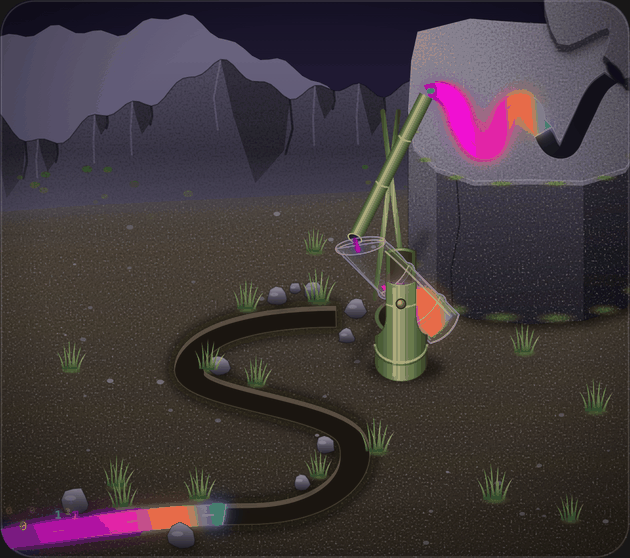
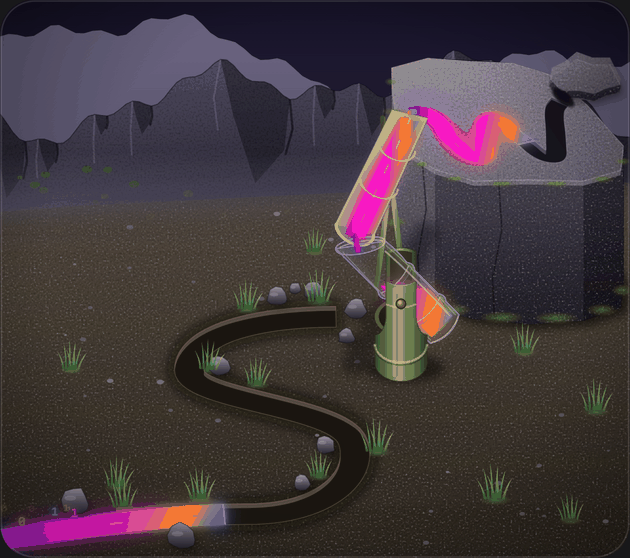
Split half-pipe kakei as thick as the rocker; level rock top with perspective
- The kakei is now a bamboo split lengthwise, the same diameter as the
  rocker: only its lower half (a U trough) remains, and the W water visibly
  runs inside it while the bamboo is filling, then drops into the mouth.
- The rock recedes with mild perspective behind z=0 (its front stays on the
  ground), so its level top narrows with distance and no longer reads as
  tilted toward the viewer; the visible left side face adds volume.
- The spring is hidden under a low boulder lying on the slab.
- 45 unit/physics tests, 37 browser scenarios.

diff --git a/desktop/plugin.js b/desktop/plugin.js
@@ -296,6 +296,10 @@ function makeSessionChannel() {
 // (x, 151+(z-h)cos45). The rock is a real extruded block standing on the ground
 // behind the bamboo; its top, where W is carved, is parallel to the ground.
 function groundToScreen(x,z,h=0) {return [x,151+(z-h)*CAMERA_K]}
+// Without convergence a level top reads as tilted toward the viewer, so the rock
+// recedes with mild perspective behind z=0 (its front stays aligned with the ground).
+var ROCK_PERSPECTIVE={cx:150,depth:380};
+function rockToScreen(x,z,h=0) {const s=1+Math.min(0,z)/ROCK_PERSPECTIVE.depth;return [ROCK_PERSPECTIVE.cx+(x-ROCK_PERSPECTIVE.cx)*s,151+z*CAMERA_K-h*CAMERA_K*s]}
 function convexHull(points) {
  const p=[...points].sort((a,b)=>a[0]-b[0]||a[1]-b[1]),cross=(o,a,b)=>(a[0]-o[0])*(b[1]-o[1])-(a[1]-o[1])*(b[0]-o[0]),lower=[],upper=[];
  for(const q of p){while(lower.length>1&&cross(lower.at(-2),lower.at(-1),q)<=0)lower.pop();lower.push(q)}
@@ -331,31 +335,40 @@ function makeWeeklyChannel() {
  const k=CAMERA_K,H=ROCK_3D.height,knots=[[174.5,32],[181,31],[187,33],[192,38],[195,44],[196,50],[200,57],[203,62],[207,66],[212,66.5],[216,62.5],[218,56],[221,50],[223,44],[226,40],[230,37.5],[234,37.5],[238,40],[240,44],[241,49],[246,55],[249,61],[253,65.5],[258,66.5],[262,63],[265,57],[268,51],[272,43],[276,35],[281,28],[288,23]];
  // The W lies in the level top of the block (height H), read by the viewer with
  // its top edge away from them; the groove deepens toward the outlet.
- const toGround=p=>[203+(p[0]-174.5)*.78,-66+(p[1]-23)/k*.82],project=p=>groundToScreen(p[0],p[1],H);
+ const toGround=p=>[203+(p[0]-174.5)*.78,-66+(p[1]-23)/k*.82],project=p=>rockToScreen(p[0],p[1],H);
  const channel=carvedChannel(catmullRom(knots.map(toGround),5),5,project);
  const last=channel.left.length-1,bedDepth=channel.left.map((_,i)=>1.2+3.4*(1-i/last));
  const bed=[...channel.left.map((p,i)=>[p[0],p[1]+bedDepth[i]]),...channel.right.map((p,i)=>[p[0],p[1]+bedDepth[i]]).reverse()];
  const foot=ROCK_3D.footprint,tops=foot.map((_,i)=>H-1+2.4*Math.sin(i*2.3));
- const plateau=foot.map((p,i)=>groundToScreen(p[0],p[1],tops[i])),base=foot.map(p=>groundToScreen(p[0],p[1],0));
+ const plateau=foot.map((p,i)=>rockToScreen(p[0],p[1],tops[i])),base=foot.map(p=>rockToScreen(p[0],p[1],0));
  // Only side faces whose outward normal points toward the camera are visible.
  const cx=foot.reduce((s,p)=>s+p[0],0)/foot.length,cz=foot.reduce((s,p)=>s+p[1],0)/foot.length,facets=[];
  for(let i=0;i<foot.length;i++){const j=(i+1)%foot.length,a=foot[i],b=foot[j];let n=[b[1]-a[1],-(b[0]-a[0])];const l=Math.hypot(n[0],n[1])||1;n=[n[0]/l,n[1]/l];
   if(n[0]*((a[0]+b[0])/2-cx)+n[1]*((a[1]+b[1])/2-cz)<0)n=[-n[0],-n[1]];
-  if(n[1]>.05)facets.push({shade:n[0]<-.35?'lit':n[0]>.35?'shade':'mid',normal:n,depth:(a[1]+b[1])/2,points:[base[i],base[j],plateau[j],plateau[i]]})}
+  const mx=(a[0]+b[0])/2,seen=n[1]>.05||(n[0]<-.3&&mx>ROCK_PERSPECTIVE.cx)||(n[0]>.3&&mx<ROCK_PERSPECTIVE.cx);
+  if(seen)facets.push({shade:n[0]<-.35?'lit':n[0]>.35?'shade':'mid',normal:n,depth:(a[1]+b[1])/2,points:[base[i],base[j],plateau[j],plateau[i]]})}
  facets.sort((a,b)=>a.depth-b.depth);
  const rock=convexHull([...plateau,...base]);
- // Kakei: a natural bamboo pipe takes the water from the W outlet over to the
- // rocker's mouth, sloping gently down; a crossed-stick trestle holds its middle.
- const mouth=bambooPoint([144.4,98]),postZ=(BAMBOO_POST.base-151)/k,mouthH=(151+postZ*k-mouth[1])/k;
- const start=[channel.ground[0][0],channel.ground[0][1],H-2.5],end=[mouth[0]-1.5,postZ,mouthH+8],mid=[0,1,2].map(i=>(start[i]+end[i])/2);
- const crossH=mid[2]-4.6,spread=7.5,stick=x=>[groundToScreen(x,mid[1],0),groundToScreen(mid[0]+(mid[0]-x)*.45,mid[1],crossH+(crossH)*.45*1)];
- const kakei={start,end,radius:3.4,screenStart:groundToScreen(...start),screenEnd:groundToScreen(...end),mouthHeight:mouthH,postDepth:postZ,
+ // Kakei: a bamboo as thick as the rocker, split lengthwise so only its lower
+ // half remains; it carries the W water, sloping down, to just above the mouth.
+ const mouth=bambooPoint([144.4,98]),postZ=(BAMBOO_POST.base-151)/k,mouthH=(151+postZ*k-mouth[1])/k,r=9.7;
+ const start=[channel.ground[0][0],channel.ground[0][1],H-1],end=[mouth[0]-1.5,postZ,mouthH+r+4],mid=[0,1,2].map(i=>(start[i]+end[i])/2);
+ const gl=Math.hypot(end[0]-start[0],end[1]-start[1]),n3=[-(end[1]-start[1])/gl,(end[0]-start[0])/gl];
+ const pt=(p,side,dh=0)=>rockToScreen(p[0]+n3[0]*r*side,p[1]+n3[1]*r*side,p[2]+dh),along=t=>[0,1,2].map(i=>start[i]+(end[i]-start[i])*t);
+ const rimA=[pt(start,1),pt(start,-1)],rimB=[pt(end,1),pt(end,-1)],profile=(p,steps=12)=>Array.from({length:steps+1},(_,i)=>{const a=i/steps*Math.PI;return pt(p,Math.cos(a),-r*Math.sin(a))});
+ const crossH=mid[2]-r-1.5,spread=7.5;
+ const kakei={start,end,radius:r,mouthHeight:mouthH,postDepth:postZ,screenStart:rockToScreen(...start),screenEnd:rockToScreen(...end),
+  outer:convexHull([...rimA,...rimB,...profile(start),...profile(end)]),inner:[rimA[0],rimB[0],rimB[1],rimA[1]],
+  water:[pt(start,.5,-r*.45),pt(end,.5,-r*.45),pt(end,-.5,-r*.45),pt(start,-.5,-r*.45)],waterAxis:[pt(start,0,-r*.4),pt(end,0,-r*.4)],
+  endProfile:profile(end),nodes:[.32,.66].map(t=>profile(along(t),8)),
   trestle:{depth:mid[1],crossHeight:crossH,feet:[mid[0]-spread,mid[0]+spread],sticks:[[groundToScreen(mid[0]-spread,mid[1],0),groundToScreen(mid[0]+spread*.5,mid[1],crossH*1.5)],[groundToScreen(mid[0]+spread,mid[1],0),groundToScreen(mid[0]-spread*.5,mid[1],crossH*1.5)]]}};
  // A rock outcrop at the spring hides where the water comes from. Its edge stops
  // just past the channel's end, so no quota-bearing water is ever covered.
  const end2=channel.points.at(-1),back=channel.points.at(-6),dl=Math.hypot(end2[0]-back[0],end2[1]-back[1]),d=[(end2[0]-back[0])/dl,(end2[1]-back[1])/dl],nn=[-d[1],d[0]];
  const at=(a,b)=>[end2[0]+d[0]*a+nn[0]*b,end2[1]+d[1]*a+nn[1]*b];
- const outcrop=catmullRom([at(1.3,-9),at(1.7,-4.5),at(1.2,0),at(1.7,4.5),at(1.5,9.5),at(6,15),[302,end2[1]+12],[308,end2[1]+14],[308,-10],[262,-10],[266,end2[1]-12],at(10,-17)],4,true);
+ // A weathered boulder sits on the slab over the spring; its near edge stops just
+ // past the channel end and its body rises above it.
+ const oc=[end2[0]+12,end2[1]-7],outcrop=Array.from({length:14},(_,i)=>{const a=i/14*Math.PI*2,s=Math.sin(a),rr=1+.12*Math.sin(i*2.7);return [oc[0]+17*Math.cos(a)*rr,oc[1]+(s>0?6.5*s:12*s)*rr]});
  return {...channel,lip:channel.points[0],spring:end2,springDirection:d,plateau,base,rock,facets,outcrop,kakei,rock3d:{footprint:foot,height:H,tops},surfaceTilt:{tiltDegrees:0,k,height:H},bed,bedDepth,surface:'rock',drainsFrom:'source'}
 }
 function pointInPolygon(p,poly) {let c=false;for(let i=0,j=poly.length-1;i<poly.length;j=i++){const a=poly[i],b=poly[j];if((a[1]>p[1])!==(b[1]>p[1])&&p[0]<(b[0]-a[0])*(p[1]-a[1])/(b[1]-a[1])+a[0])c=!c}return c}
@@ -529,6 +542,7 @@ function applyFluidFrame(svg,frame) {
  const jet=svg.querySelector('[data-bamboo-pour]');if(jet){jet.setAttribute('d',fluidJetPath(frame.jet));jet.style.opacity=String(frame.jet.opacity)}
  const internal=svg.querySelector('[data-fluid-internal]');if(internal)internal.style.opacity=String(frame.jet.opacity*.65);
  const inlet=svg.querySelector('[data-bamboo-inflow]');if(inlet){inlet.style.opacity=frame.flowing?'.9':'0';inlet.setAttribute('data-bamboo-flow',frame.flowing?'running':'stopped')}
+ for(const node of svg.querySelectorAll('[data-kakei-water],[data-kakei-current]'))node.style.opacity=frame.flowing?(node.hasAttribute('data-kakei-water')?'.95':'.7'):'0';
  const splash=svg.querySelector('[data-fluid-splash]');if(splash){const [x,y]=FLUID_GEOMETRY.channel.inlet,o=frame.jet.opacity,r=2.5+4.5*((frame.time%650)/650),ry=r*CAMERA_K*.55;splash.setAttribute('d',`M${round(x-r)} ${y}A${round(r)} ${round(ry)} 0 1 0 ${round(x+r)} ${y}A${round(r)} ${round(ry)} 0 1 0 ${round(x-r)} ${y}`);splash.style.opacity=String(o*.7)}
  for(const node of svg.querySelectorAll('[data-binary-digit]')){
   const d=frame.motion?binaryDigit(frame.time,Number(node.getAttribute('data-binary-digit')),frame.S.fraction):null;
@@ -664,19 +678,24 @@ function bambooScene(sessionLeft,weeklyLeft,id,expanded=false,cycle={progress:nu
   ]}),
   jsx('ellipse',{'data-spring':'W',cx:spr[0]+g.weekly.springDirection[0]*2.2,cy:spr[1]+g.weekly.springDirection[1]*2.2,rx:3.2,ry:7.5,transform:`rotate(${sprAngle} ${spr[0]+g.weekly.springDirection[0]*2.2} ${spr[1]+g.weekly.springDirection[1]*2.2})`,fill:paint('crevice')})
  ]});
- const kk=w3.kakei,ka=kk.screenStart,kb=kk.screenEnd,kl=Math.hypot(kb[0]-ka[0],kb[1]-ka[1]),ku=[(kb[0]-ka[0])/kl,(kb[1]-ka[1])/kl],kn=[-ku[1],ku[0]],kr=kk.radius,off=(p,s)=>[p[0]+kn[0]*kr*s,p[1]+kn[1]*kr*s],kf=p=>p.map(n=>Number(n.toFixed(2))).join(' ');
- const kakei=jsxs('g',{'data-kakei':true,children:[
-
-  ...kk.trestle.sticks.map((s,i)=>jsx('path',{'data-kakei-trestle':i,d:line(s),fill:'none',stroke:paint('post'),strokeWidth:2.3,strokeLinecap:'round'},`stick-${i}`)),
-  jsx('path',{d:`M${kf(groundToScreen(kk.start[0],kk.start[1],0))}L${kf(groundToScreen(kk.end[0],kk.end[1],0))}`,fill:'none',stroke:'#000',strokeOpacity:.35,strokeWidth:5,strokeLinecap:'round',filter:paint('soft')}),
-  jsx('path',{'data-kakei-pipe':true,d:`M${kf(off(ka,1))}L${kf(off(kb,1))}L${kf(off(kb,-1))}L${kf(off(ka,-1))}Z`,fill:paint('kakei')}),
-  ...[.3,.62].map((t,i)=>{const c=lerp2(ka,kb,t);return jsx('path',{d:`M${kf(off(c,1))}Q${kf([c[0]+ku[0]*1.6,c[1]+ku[1]*1.6])} ${kf(off(c,-1))}`,fill:'none',stroke:'#e4dc9c',strokeOpacity:.55,strokeWidth:.8},`kakei-node-${i}`)}),
-  jsx('path',{d:`M${kf(off(ka,.35))}L${kf(off(kb,.35))}`,fill:'none',stroke:'#fff7cf',strokeOpacity:.28,strokeWidth:1,strokeLinecap:'round'}),
-  jsx('ellipse',{'data-kakei-mouth':true,cx:kb[0],cy:kb[1],rx:kr,ry:kr*.55,transform:`rotate(${Math.atan2(kn[1],kn[0])*180/Math.PI} ${kb[0]} ${kb[1]})`,fill:'#1e1a0c',stroke:'#cfc584',strokeWidth:.6})
+ const kk=w3.kakei,kf=p=>p.map(n=>Number(n.toFixed(2))).join(' '),kb=kk.waterAxis[1];
+ const kakei=jsxs('g',{'data-kakei':'half-pipe',children:[
+  ...kk.trestle.sticks.map((s,i)=>jsx('path',{'data-kakei-trestle':i,d:line(s),fill:'none',stroke:paint('post'),strokeWidth:2.6,strokeLinecap:'round'},`stick-${i}`)),
+  jsx('path',{d:line([groundToScreen(kk.start[0],kk.start[1],0),groundToScreen(kk.end[0],kk.end[1],0)]),fill:'none',stroke:'#000',strokeOpacity:.35,strokeWidth:12,strokeLinecap:'round',filter:paint('soft')}),
+  jsx('path',{'data-kakei-pipe':true,d:fluidPath(kk.outer),fill:paint('kakei'),stroke:'#252b10',strokeOpacity:.5,strokeWidth:.5,strokeLinejoin:'round'}),
+  jsx('path',{'data-kakei-inside':true,d:fluidPath(kk.inner),fill:paint('kakei-inside')}),
+  jsx('g',{filter:paint('liquid-glow'),children:[
+   jsx('path',{'data-kakei-water':true,d:fluidPath(kk.water),fill:paint('liquid'),style:{opacity:0,animation:rainbow}}),
+   jsx('path',{'data-kakei-current':true,d:line(kk.waterAxis),fill:'none',stroke:'#f6eeff',strokeOpacity:.7,strokeWidth:.9,strokeDasharray:'4 9',strokeLinecap:'round',className:'usage-bamboo-flow',style:{opacity:0,animation:'usage-bamboo-flow 1.1s linear infinite'}})
+  ]}),
+  ...kk.nodes.map((n,i)=>jsx('path',{d:line(n),fill:'none',stroke:'#efe6b0',strokeOpacity:.6,strokeWidth:.9},`kakei-node-${i}`)),
+  jsx('path',{d:line([kk.inner[0],kk.inner[1]]),fill:'none',stroke:'#f3ecc2',strokeOpacity:.65,strokeWidth:.9}),
+  jsx('path',{d:line([kk.inner[3],kk.inner[2]]),fill:'none',stroke:'#f3ecc2',strokeOpacity:.45,strokeWidth:.8}),
+  jsx('path',{'data-kakei-mouth':true,d:line(kk.endProfile),fill:'none',stroke:'#e9dfa6',strokeWidth:1.3,strokeLinecap:'round'})
  ]});
  const digits=jsx('g',{'data-binary-stream':'S',filter:paint('liquid-glow'),children:Array.from({length:BINARY_SLOTS},(_,i)=>jsx('text',{'data-binary-digit':i,x:0,y:0,textAnchor:'middle',fontFamily:'ui-monospace,SFMono-Regular,Menlo,Consolas,monospace',fontWeight:700,fontSize:3.6,fill:'#3d9bff',style:{opacity:0},children:'0'},`digit-${i}`))});
  const decor=[...g.stones.map((s,i)=>({y:s.y,node:stoneNode(s,i)})),...g.grass.map((t,i)=>({y:t[1],node:tuftNode(t,i)}))].sort((a,b)=>a.y-b.y);
- return jsxs('svg',{'data-bamboo-scene':expanded?'expanded':'compact','data-material':'glass-bamboo','data-colour-style':'apple-reference-v10','data-scene':'kakei-block-v16','data-camera':'oblique-45','data-bamboo-scale':.44,'data-weekly-shape':'w-watercourse-rock','data-session-shape':'s-watercourse','data-fluid-engine':'gravity-volume-v7',
+ return jsxs('svg',{'data-bamboo-scene':expanded?'expanded':'compact','data-material':'glass-bamboo','data-colour-style':'apple-reference-v10','data-scene':'half-pipe-v17','data-camera':'oblique-45','data-bamboo-scale':.44,'data-weekly-shape':'w-watercourse-rock','data-session-shape':'s-watercourse','data-fluid-engine':'gravity-volume-v7',
   'data-flow-from':'W','data-flow-via':'cycle','data-flow-to':'S','data-outlet-position':'bottom','data-source-pipe':'none',
   'data-cycle-state':m.tipped?'dumping':cycle.phase||'unknown','data-cycle-progress':cycle.progress,'data-cycle-reset':cycle.resetMs,'data-physical-angle':frame.angle,
   viewBox:'0 0 300 266',width:expanded?'100%':68,height:expanded?236:20,'aria-hidden':true,style:{display:'block',flexShrink:0,overflow:'hidden'},children:[
@@ -701,7 +720,8 @@ function bambooScene(sessionLeft,weeklyLeft,id,expanded=false,cycle={progress:nu
     jsxs('linearGradient',{id:uid('glass-body'),x1:'0%',y1:'0%',x2:'0%',y2:'100%',children:[jsx('stop',{offset:'0%',stopColor:tint('.95','.03','155'),stopOpacity:.25}),jsx('stop',{offset:'25%',stopColor:tint('.80','.05','160'),stopOpacity:.045}),jsx('stop',{offset:'67%',stopColor:tint('.8','.04','185'),stopOpacity:.025}),jsx('stop',{offset:'100%',stopColor:tint('.75','.06','170'),stopOpacity:.2})]}),
     jsxs('linearGradient',{id:uid('glass-edge'),x1:'0%',y1:'0%',x2:'100%',y2:'90%',children:[jsx('stop',{offset:'0%',stopColor:white,stopOpacity:.55}),jsx('stop',{offset:'35%',stopColor:tint('.8','.07','160'),stopOpacity:.5}),jsx('stop',{offset:'70%',stopColor:white,stopOpacity:.4}),jsx('stop',{offset:'100%',stopColor:tint('.65','.06','175'),stopOpacity:.45})]}),
     gradient('post',[['0%','#3e4a22'],['28%','#6f7d3c'],['46%','#a9ad6c'],['60%','#86904c'],['100%','#323c1a']],{x2:'100%',y2:'0%'}),
-    jsx('linearGradient',{id:uid('kakei'),gradientUnits:'userSpaceOnUse',x1:off(ka,1)[0],y1:off(ka,1)[1],x2:off(ka,-1)[0],y2:off(ka,-1)[1],children:[jsx('stop',{offset:'0%',stopColor:'#3e4a22'}),jsx('stop',{offset:'40%',stopColor:'#a9ad6c'}),jsx('stop',{offset:'100%',stopColor:'#323c1a'})]}),
+    gradient('kakei',[['0%','#59652d'],['45%','#8f9a52'],['100%','#323c1a']],{x2:'100%'}),
+    gradient('kakei-inside',[['0%','#e2d6a0'],['55%','#bba970'],['100%','#8c7c48']],{x2:'60%'}),
     gradient('face-depth',[['0%','#000',0],['55%','#000',.08],['100%','#000',.45]]),
     gradient('post-cut',[['0%','#e3dcb0'],['100%','#a99f6c']]),
     jsxs('radialGradient',{id:uid('peg'),cx:'40%',cy:'38%',children:[jsx('stop',{offset:'0%',stopColor:'#c89a5a'}),jsx('stop',{offset:'100%',stopColor:'#6b4720'})]}),
@@ -759,7 +779,7 @@ function bambooScene(sessionLeft,weeklyLeft,id,expanded=false,cycle={progress:nu
    ]},String(cycle.eventId||'idle')),
    frame.bamboo.fraction===null?jsx('text',{'data-bamboo-unknown':'cycle',x:bambooPoint([212,157])[0],y:bambooPoint([212,157])[1],textAnchor:'middle',fontSize:7,fontWeight:650,fill:muted,children:usageText().unknownMark}):null,
    frontPost,
-   jsx('g',{filter:paint('liquid-glow'),children:jsx('path',{'data-bamboo-inflow':'W','data-bamboo-flow':frame.flowing?'running':'stopped',d:`M${from.join(' ')}L${lip.join(' ')}M${kb[0]} ${kb[1]+1}L${mouth.join(' ')}`,fill:'none',stroke:paint('liquid'),strokeWidth:2.4,strokeLinecap:'round',strokeDasharray:'7 2',className:'usage-bamboo-flow',style:{opacity:frame.flowing?.9:0,animation:`usage-bamboo-flow 1.3s linear infinite, ${rainbow}`}})}),
+   jsx('g',{filter:paint('liquid-glow'),children:jsx('path',{'data-bamboo-inflow':'W','data-bamboo-flow':frame.flowing?'running':'stopped',d:`M${from.join(' ')}L${lip.join(' ')}M${kb[0]} ${kb[1]}L${mouth.join(' ')}`,fill:'none',stroke:paint('liquid'),strokeWidth:2.4,strokeLinecap:'round',strokeDasharray:'7 2',className:'usage-bamboo-flow',style:{opacity:frame.flowing?.9:0,animation:`usage-bamboo-flow 1.3s linear infinite, ${rainbow}`}})}),
    ...decor.filter(d=>d.y>=feet).map(d=>d.node),
    jsx('g',{filter:paint('liquid-glow'),children:jsx('path',{'data-bamboo-pour':'S',d:fluidJetPath(frame.jet),fill:paint('liquid'),style:{opacity:frame.jet.opacity,animation:rainbow}})}),
    digits,
@@ -907,7 +927,7 @@ function UsageCorner() {
  useEffect(()=>{usageView.set({...source,cycle,selectedAccount,onSelectAccount:id=>setSelectedAccount({provider:rawProvider?.slug,id})})})
  useEffect(()=>()=>usageView.set(null),[])
  useEffect(()=>observeNativeSurfaces(layerNode.current),[])
- useEffect(()=>{try{widgetStorage?.set('floating-art-v1',geometryRef.current);widgetStorage?.set('fluid-engine-v7',true);widgetStorage?.set('proportions-v8',true);widgetStorage?.set('siri-neon-v9',true);widgetStorage?.set('apple-reference-v10',true);widgetStorage?.set('s-watercourse-v11',true);widgetStorage?.set('rock-garden-v12',true);widgetStorage?.set('rock-garden-v13',true);widgetStorage?.set('mountain-i18n-v14',true);widgetStorage?.set('flat-rock-post-v15',true);widgetStorage?.set('kakei-block-v16',true)}catch{}},[])
+ useEffect(()=>{try{widgetStorage?.set('floating-art-v1',geometryRef.current);widgetStorage?.set('fluid-engine-v7',true);widgetStorage?.set('proportions-v8',true);widgetStorage?.set('siri-neon-v9',true);widgetStorage?.set('apple-reference-v10',true);widgetStorage?.set('s-watercourse-v11',true);widgetStorage?.set('rock-garden-v12',true);widgetStorage?.set('rock-garden-v13',true);widgetStorage?.set('mountain-i18n-v14',true);widgetStorage?.set('flat-rock-post-v15',true);widgetStorage?.set('kakei-block-v16',true);widgetStorage?.set('half-pipe-v17',true)}catch{}},[])
  useEffect(()=>{if(!open)return;const key=e=>{if(e.key==='Escape')setOpen(false)};document.addEventListener('keydown',key);return()=>document.removeEventListener('keydown',key)},[open])
  useEffect(()=>{const fit=()=>{const next=clampFloatingRect(geometryRef.current,floatingViewport());geometryRef.current=next;setGeometry(next)};window.addEventListener('resize',fit);return()=>window.removeEventListener('resize',fit)},[])
  function move(next,persist=false) {
@@ -948,7 +968,7 @@ export default {
   widgetStorage=ctx.storage||null
   // Installs from before the language choice were Arabic-only: keep them Arabic.
   try{let saved=widgetStorage?.get('language',null);if(saved==null&&widgetStorage?.get('floating-art-v1',null)!=null){saved='ar';widgetStorage.set('language','ar')}languageAtom.set(saved||'auto')}catch{}
-  console.info('[usage-meter] kakei-block-v16 loaded')
+  console.info('[usage-meter] half-pipe-v17 loaded')
   ctx.register({id:'usage-corner-auto-v2',area:'statusBar.left',order:-10000,render:()=>jsx(UsageCorner,{})})
  }
 }

diff --git a/README.md b/README.md
@@ -10,7 +10,7 @@ Japanese rock garden fountain (*shishi-odoshi*), seen from a 45° camera.
 
 | Part | Meaning |
 |---|---|
-| **W** channel, carved into the level top of a rock block that stands on the ground at the foot of a mountain | Remaining **weekly** quota. Water rises from a spring hidden under a rock outcrop and runs along a groove that deepens toward the left end, where a bamboo pipe (*kakei*) on a crossed trestle carries it to the rocker's mouth. As the week is used, the channel dries from the spring while the outlet end stays wet |
+| **W** channel, carved into the level top of a rock block that stands on the ground at the foot of a mountain | Remaining **weekly** quota. Water rises from a spring hidden under a rock outcrop and runs along a groove that deepens toward the left end, where a split bamboo pipe (*kakei*), as thick as the rocker and open on top, carries it on a crossed trestle to the rocker's mouth. As the week is used, the channel dries from the spring while the outlet end stays wet |
 | Glass bamboo | Time until the 5-hour session window resets, from the provider's real `resets_at` |
 | **S** stream, lying flat in the ground | Remaining **session / 5-hour** quota. It starts among rocks under the bamboo and runs off the edge of the picture, where its water dissolves into tiny 0/1 digits. With use it recedes gradually from the inlet |
 
@@ -95,7 +95,7 @@ Chromium, then Edge, then Chrome. All network data in the browser test is synthe
 ويدجيت صغيرة عائمة لتطبيق **Hermes Agent Desktop** على ويندوز وماك ولينكس. تعرض حصة
 الاشتراك الحقيقية على شكل حديقة صخرية يابانية بنافورة خيزران، مرسومة من زاوية كاميرا 45°:
 
-- **W:** مجرى متعرّج محفور في السطح المستوي لصخرة عند سفح جبل، يمثل الحصة الأسبوعية. ينبع الماء من شق مخفي تحت صخرة، ويجري في أخدود يزداد عمقه حتى طرفه الأيسر، ثم يحمله أنبوب خيزران (كاكي) على حامل متصالب إلى فم القصبة. مع الاستهلاك يجف من جهة المنبع ويبقى ممتلئًا عند المصب.
+- **W:** مجرى متعرّج محفور في السطح المستوي لصخرة عند سفح جبل، يمثل الحصة الأسبوعية. ينبع الماء من شق مخفي تحت صخرة، ويجري في أخدود يزداد عمقه حتى طرفه الأيسر، ثم يحمله نصف قصبة خيزران مشطورة (كاكي) بقطر القصبة المتأرجحة، على حامل متصالب، إلى فم القصبة. مع الاستهلاك يجف من جهة المنبع ويبقى ممتلئًا عند المصب.
 - **القصبة الزجاجية:** الوقت المتبقي حتى تجدد نافذة الخمس ساعات، حسب موعد المزوّد الفعلي.
 - **مجرى S:** مجرى مستوٍ في الأرض يمثل حصة الجلسة (5 ساعات). يبدأ بين صخور تحت القصبة ويخرج من حافة الرسمة، حيث يتحول ماؤه إلى أرقام 0 و1 صغيرة تتطاير وتختفي. مع الاستخدام ينحسر تدريجيًا من جهة القصبة. حوله أحجار وحشائش تتمايل، وتزوره فراشة أو اثنتان كل 30 ثانية.
 - **اللغات:** تفاصيل الاستهلاك متاحة بالعربية والإنجليزية والفرنسية والإسبانية والصينية. تتبع لغة Hermes تلقائيًا، ويمكن اختيار لغة أخرى من قائمة *اللغة* في نافذة التفاصيل.
